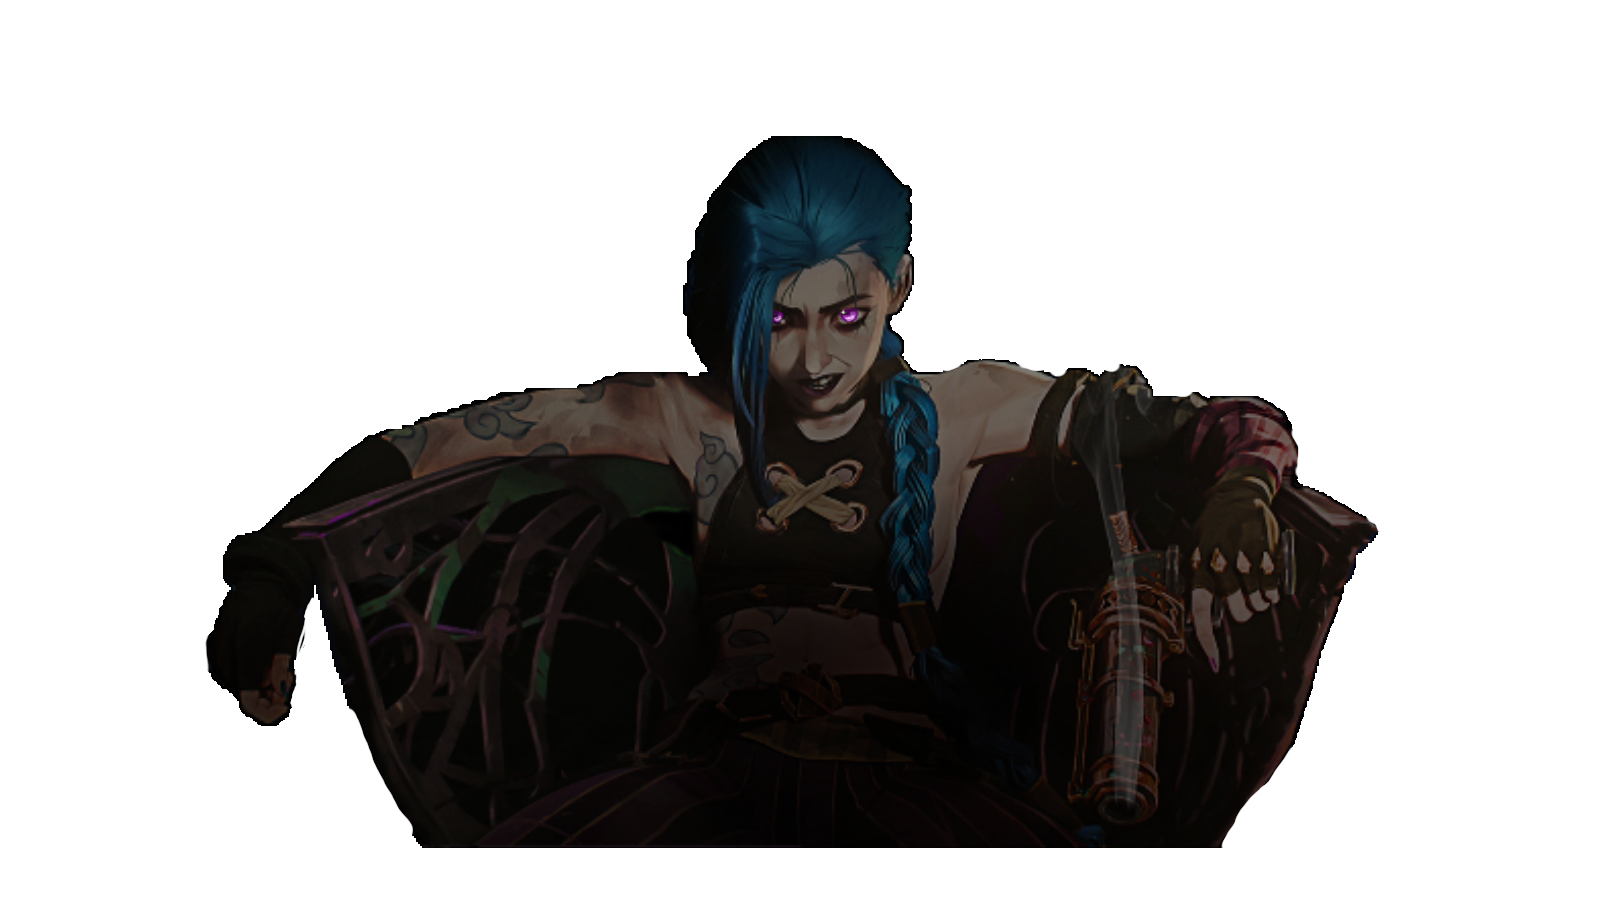
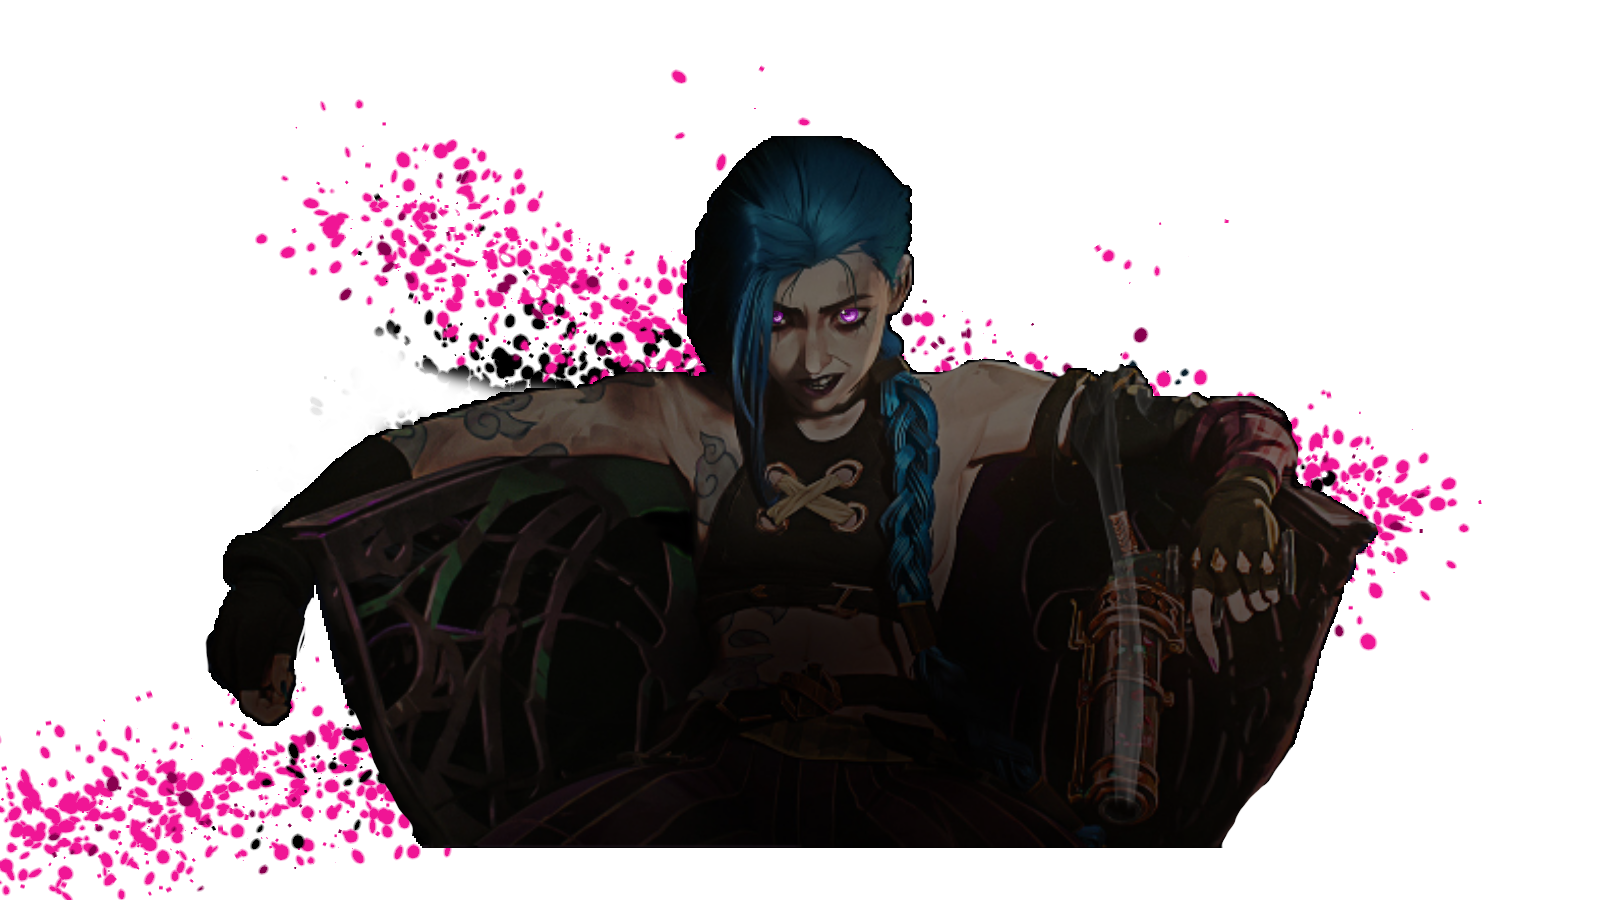
final edit

diff --git a/arcane.css b/arcane.css
@@ -13,15 +13,18 @@
 	src: url(font/BeaufortforLOL-Regular.ttf);
 
 }
+@import url('https://fonts.googleapis.com/css2?family-Poppins:wght@400;600;900&display=swap');
 *{
 	margin:0;
 	padding:0;
 	box-sizing: border-box;
-	font-family:'LOLR',serif;
+	font-family:'LOLR','Poppins',serif;
 }
 
 body{
-	background-color: #020202; /*Color Black*/
+	background-image: url(assets/BG.png); /*Color Black*/
+	background-size: cover;
+	height: 100%;
 }
 .container{
 	width:100%;
@@ -33,7 +36,7 @@ body{
     position: absolute;
 	background: url(assets/background.jpg)  center center / 100% 100% no-repeat;
 	background-size: cover;
-	filter: brightness(0.5);
+	filter: brightness(0.4);
 }
 .topG{
 	height: 20%;
@@ -75,7 +78,7 @@ body{
 	display: block;
 	position: relative;
 	top: 50px;
-	right: -30%;
+	right: -20%;
 	height: 100%;
 	width: 90%;
 	animation: animatetwo 4s infinite;
@@ -96,13 +99,13 @@ body{
 	height: 100%;
 	width: calc(200% - 110px);
 	top: 80px;
-	right: 30%;
+	right: 50%;
 	
 }
 
 .content{
 color: #08132E;
-height: 1900px;
+height: 1850px;
 max-width: 1200px;
 margin: 0 auto;
 padding: 100px;
@@ -118,63 +121,6 @@ font-size: 20px;
     justify-content: center;
     left: 750px;
    	transform: translateY(200px);
-}
-.paintr{
-	height: auto;
-    width: auto;
-    margin: 30px;
-    position: absolute;
-}
-.paint{
-	width: auto;
-	z-index: -5;
-	position: relative;
-	
-}
-
-.paintw2 {
-	position: absolute;
-	height: auto;
-    width: 100%;
-    display: flex;
-    box-sizing: border-box;
-    justify-content: center;
-    left: -750px;
-   	transform: translateY(-200px);
-}
-.paintr2{
-	height: auto;
-    width: auto;
-    margin: 30px;
-    position: absolute;
-}
-.paint2{
-	width: auto;
-	z-index: -5;
-	position: relative;
-	
-}
-.paintw3 {
-	position: absolute;
-	height: auto;
-    width: 100%;
-    display: flex;
-    box-sizing: border-box;
-    justify-content: center;
-    left: -750px;
-   	transform: translateY(700px);
-}
-.paintr3{
-	height: auto;
-    width: auto;
-    margin: 30px;
-    position: absolute;
-}
-.paint3{
-	width: auto;
-	z-index: -5;
-	position: relative;
-	
 }
 .about{
 	
@@ -262,7 +208,7 @@ font-size: 20px;
 	text-align: center;
 }
 h2 {
-	font-family: 'LOL';
+	font-family: 'LOL', 'Poppins';
 	font-size: 40px;
 }
 p{
@@ -295,7 +241,7 @@ margin: 0;
 a{
 color: #C9985C;
 text-decoration: none;
-font-family: 'LOL';
+font-family: 'LOL', 'Poppins';
 }
 
 .wrap{
@@ -331,14 +277,12 @@ font-family: 'LOL';
     cursor: pointer;
 }
 .card3{
-	color: black;
     height: 400px;
     width: 220px;
     background-color: #3D5FB6;
     margin: 30px;
 }
 .card3:hover{
-	color: black;
     height: 460px;
     width: 280px;
     background-color: #3D5FB6;
@@ -349,7 +293,7 @@ font-family: 'LOL';
 }
 .h3card{
 	color: #EDE0CE;
-	font-family: 'LOL';
+	font-family: 'LOL','Poppins';
 	text-align: center;
 }
 
@@ -384,13 +328,13 @@ font-family: 'LOL';
     width: 100%; /* Make the video width 100% to fit the header width */
     height: 100%;
     object-fit: cover;
-    filter: brightness(9);
+    filter: brightness(5);
     }
 footer{
 	position: absolute;
 	width: 100%;
 	height: 18%;
-	margin-top: 20px;
+	margin-top: 0px;
 	padding: 4% 20px;
 	background-color: #111111;
 }
@@ -414,7 +358,7 @@ footer ul li{
 width: auto;
 display: inline-block;
 margin: 0 5px;
-font-family: 'LOL';
+font-family: 'LOL', 'Poppins';
 font-size: 20px;
 color: #EDE0CE;
 }

diff --git a/index.html b/index.html
@@ -40,21 +40,6 @@
 In "Arcane," Jinx is a complex character who evolves from a troubled girl named Powder in the underbelly of Zaun. She becomes a skilled inventor with a penchant for chaos and destruction, reflecting the stark divide between Piltover and Zaun.</p><br><br>
 				</div>
 			</div>
-			<div class="paintw">
-				<div class="paintr">
-				<img src="assets/jinxp.png" class="paint">
-				</div>
-			</div>
-			<div class="paintw2">
-				<div class="paintr">
-				<img src="assets/paint.png" class="paint2">
-				</div>
-			</div>
-			<div class="paintw3">
-				<div class="paintr3">
-				<img src="assets/paint2.png" class="paint3">
-				</div>
-			</div>
 			<div class="charac">
 			<h2>Characteristics of Jinx</h2></br>
 				<div class="abt1">Jinx is Innocent Yet Murderer</div>
